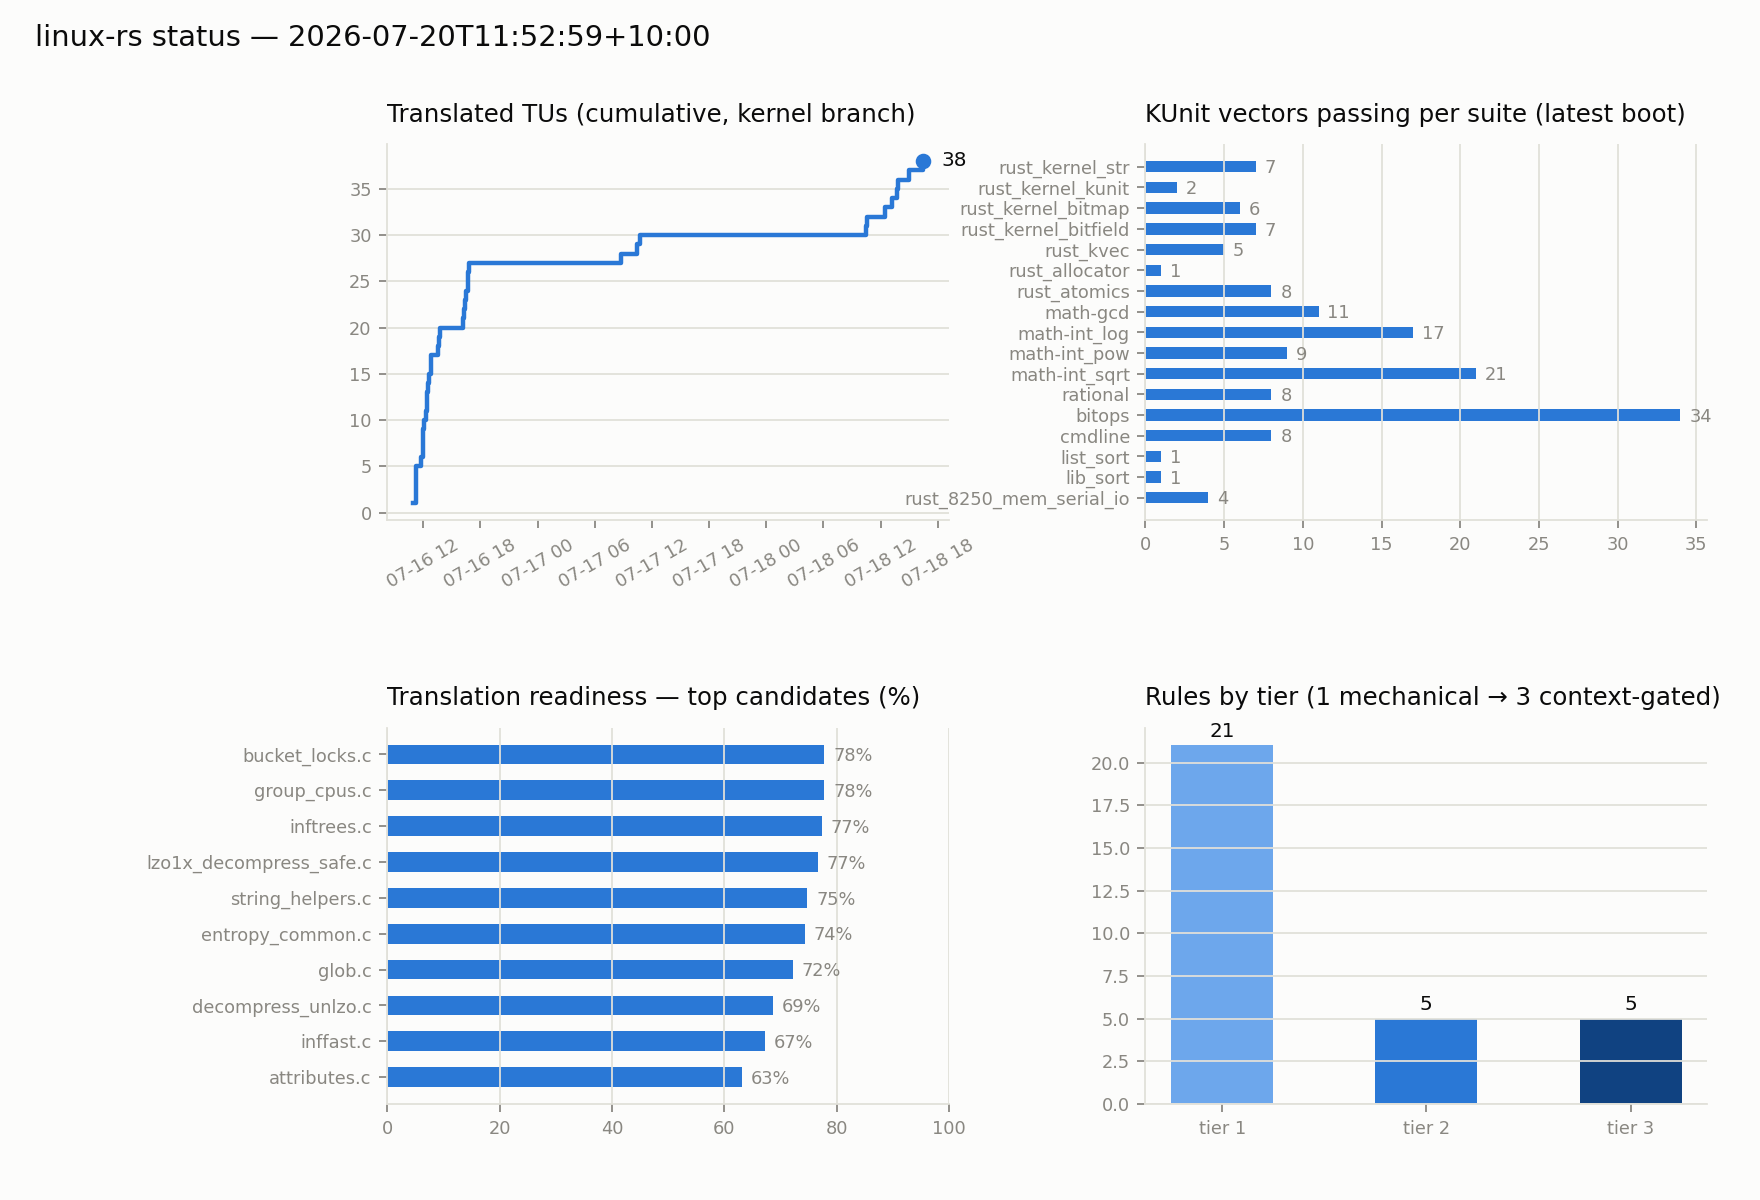
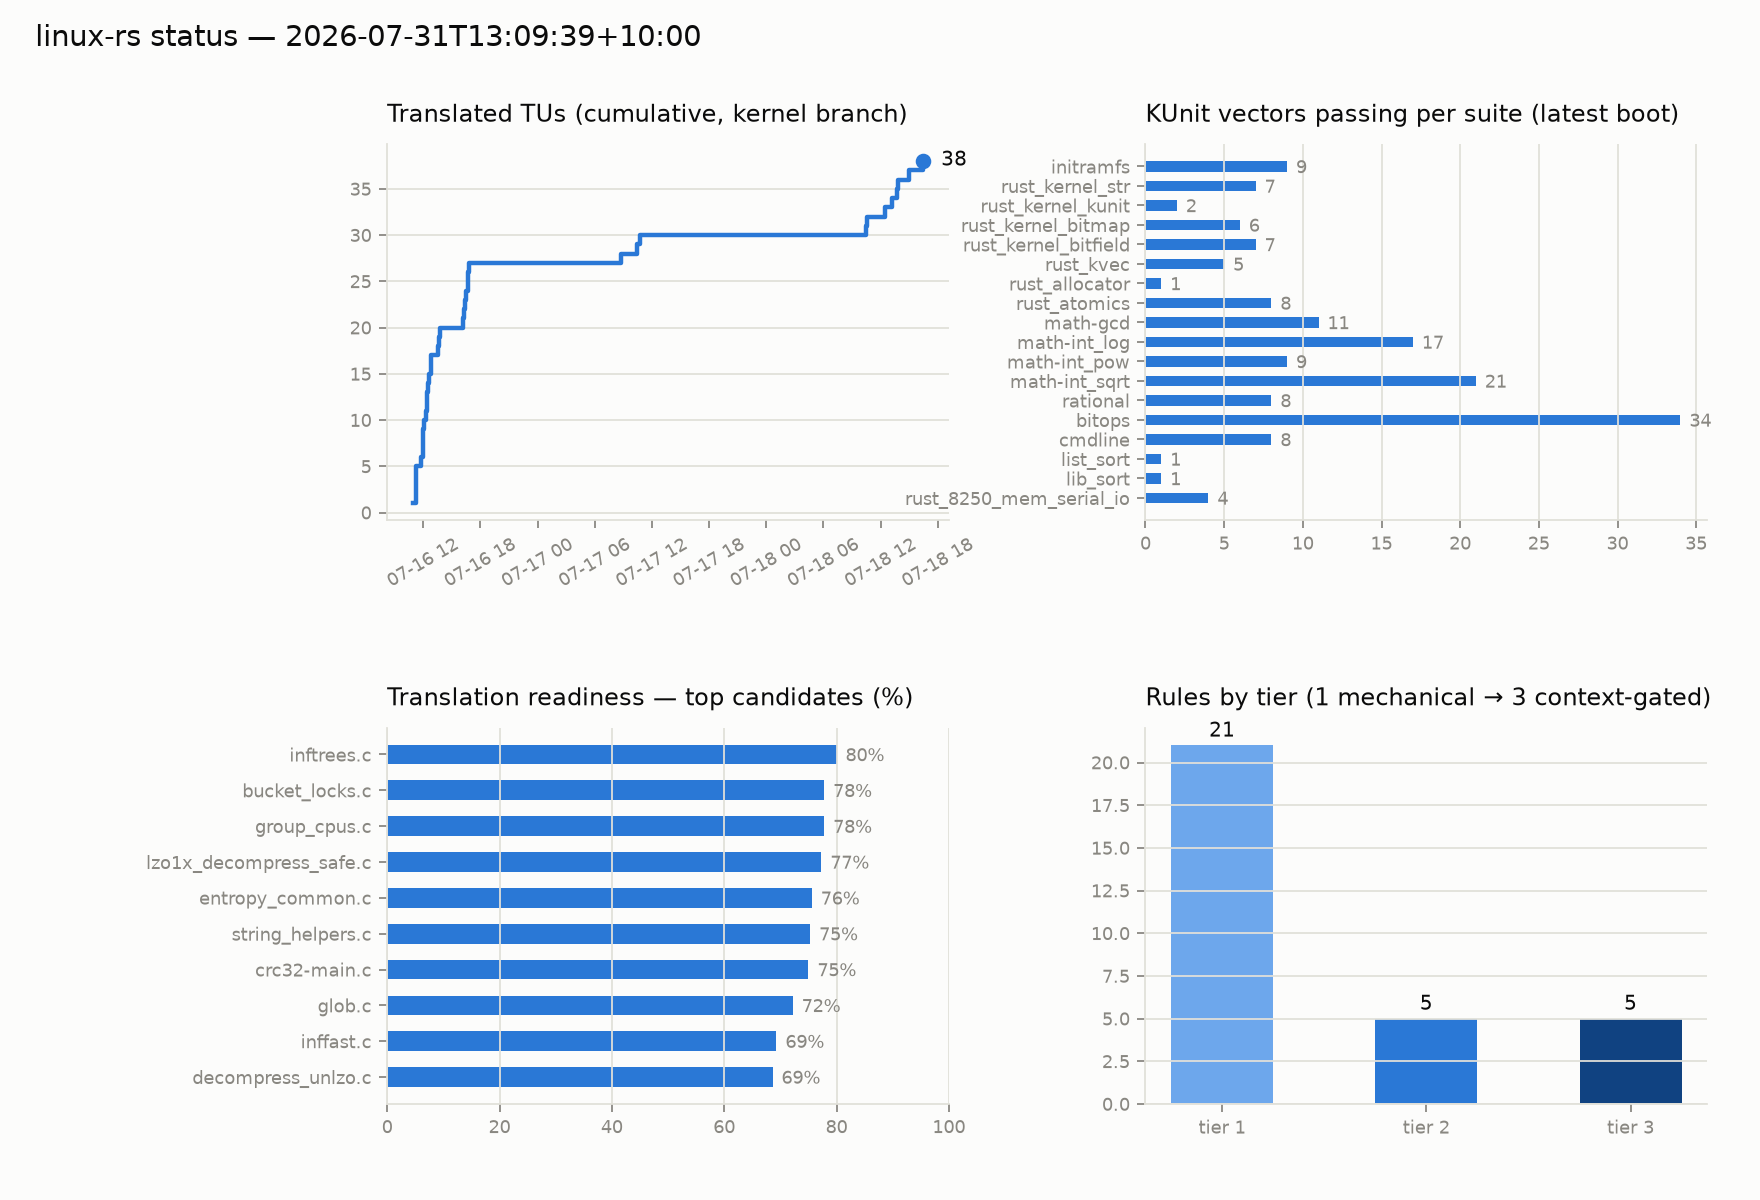
docs/STATUS.md: regenerate against the rebased+promoted linux-riscv/ tree
Real dev.py check output after promoting the rebase (#52) — 18 suites/
156 vectors now (was 17/147; the initramfs suite is now enabled from
earlier CONFIG_INITRAMFS_TEST work), not a manual edit.

diff --git a/docs/STATUS.md b/docs/STATUS.md
@@ -1,8 +1,8 @@
-# Status — 2026-07-20T11:52:59+10:00
+# Status — 2026-07-31T13:09:39+10:00
 
 ![status](status/status.png)
 
-- Translated TUs: **38**   ·   KUnit: **17 suites, 147 vectors** green   ·   Rules: **31** (t1 21 / t2 5 / t3 5)
+- Translated TUs: **38**   ·   KUnit: **18 suites, 156 vectors** green   ·   Rules: **31** (t1 21 / t2 5 / t3 5)
 - Wired into live boot path: **6 functions across 1 file(s)** (vs. **38** total TUs landed) — see [docs/streams.md](streams.md)'s stream 2 ("c2rust-boot-blocker") for why this is the harder, more important milestone: a standalone `lib/` swap compiling clean is not the same as real Rust executing at a live, pre-existing C call site.
 
 ## Boot-path integration patterns (live-derived, not hand-maintained)
@@ -24,6 +24,7 @@
 
 | suite | vectors |
 |---|---|
+| initramfs | 9 |
 | rust_kernel_str | 7 |
 | rust_kernel_kunit | 2 |
 | rust_kernel_bitmap | 6 |
@@ -46,15 +47,15 @@
 
 | TU | readiness |
 |---|---|
+| lib/zlib_inflate/inftrees.c | 80.0% |
 | lib/bucket_locks.c | 77.8% |
 | lib/group_cpus.c | 77.8% |
-| lib/zlib_inflate/inftrees.c | 77.4% |
-| lib/lzo/lzo1x_decompress_safe.c | 76.7% |
-| lib/string_helpers.c | 74.8% |
-| lib/zstd/common/entropy_common.c | 74.4% |
+| lib/lzo/lzo1x_decompress_safe.c | 77.3% |
+| lib/zstd/common/entropy_common.c | 75.6% |
+| lib/string_helpers.c | 75.3% |
+| lib/crc/crc32-main.c | 75.0% |
 | lib/glob.c | 72.2% |
+| lib/zlib_inflate/inffast.c | 69.3% |
 | lib/decompress_unlzo.c | 68.6% |
-| lib/zlib_inflate/inffast.c | 67.2% |
-| lib/kunit/attributes.c | 63.2% |
 
 _Auto-generated by `scripts/report.py` (via `dev.py check`); history in [status/history.csv](status/history.csv)._
